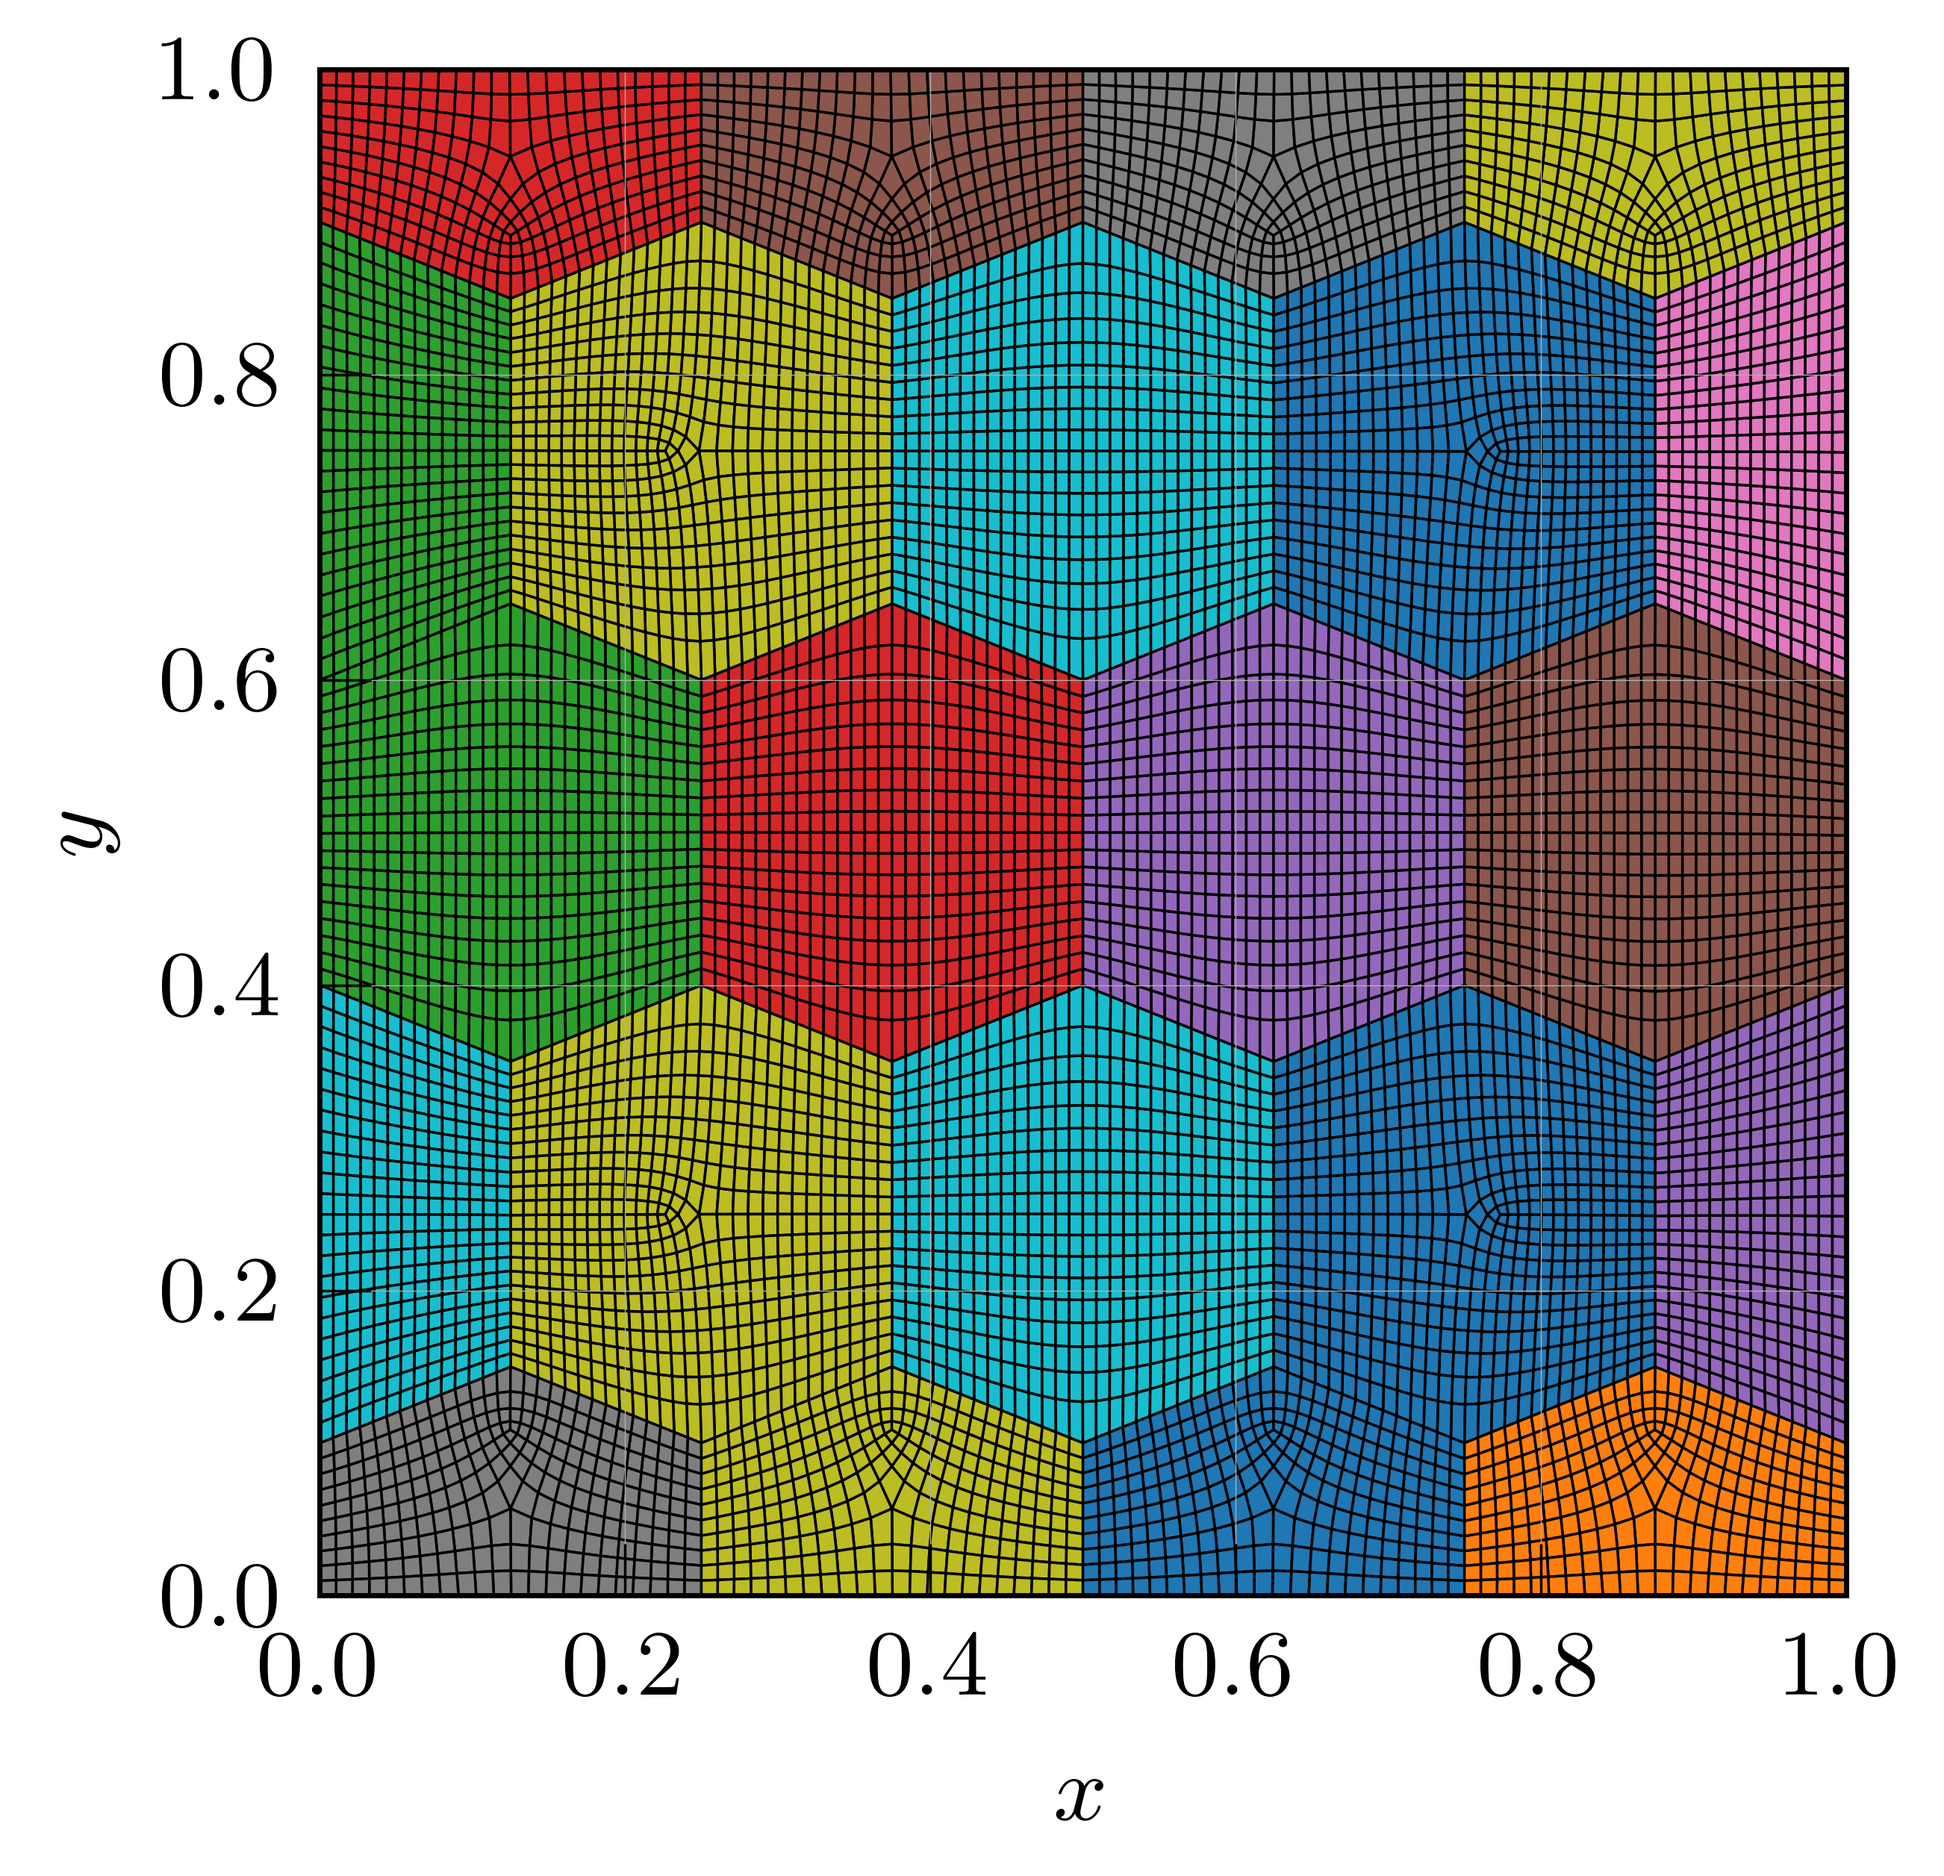
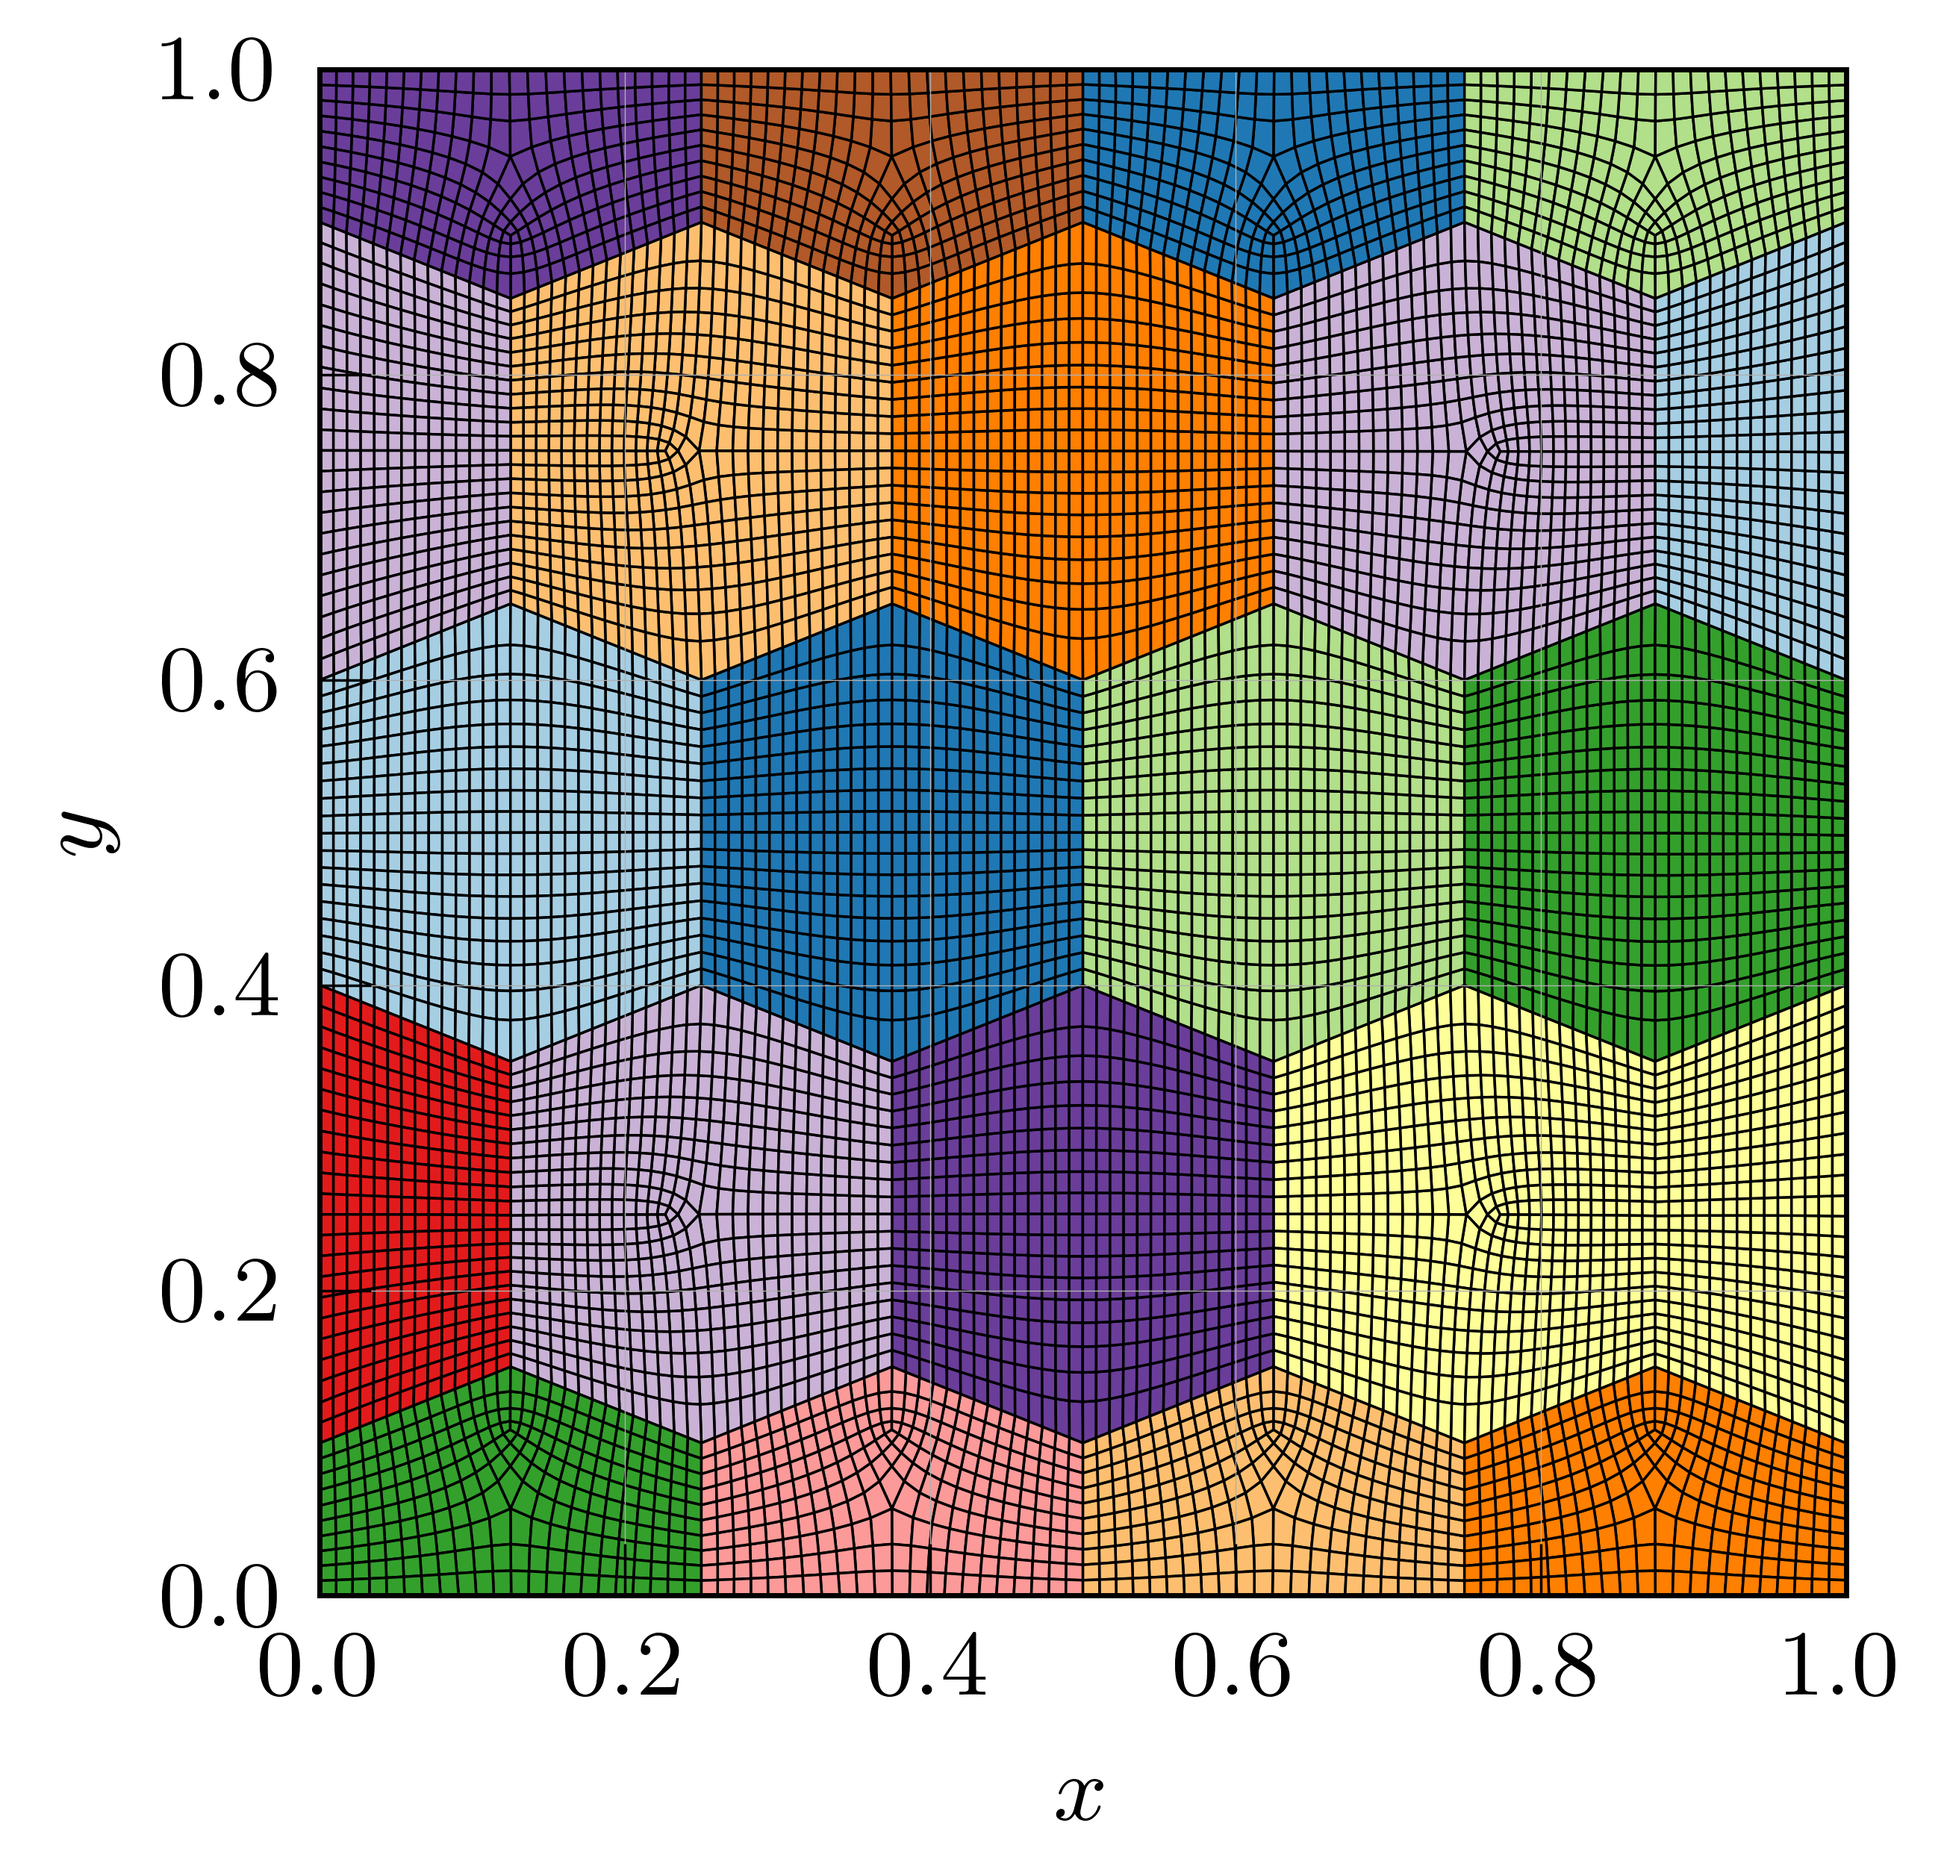
update color scheme

diff --git a/src/post/gmsh_plotter.py b/src/post/gmsh_plotter.py
@@ -35,7 +35,7 @@ class GMSHPlotter:
 
         # Get nodes coords of mesh
         # coords: [x1, y1, z1, x2, y2, z2, ...]
-        node_tags, coords, _ = gmsh.model.mesh.getNodes()
+        _, coords, _ = gmsh.model.mesh.getNodes()
         coords = coords.reshape((-1, 3)) # [[x1, y1, z1], ...]
 
         # If no ax provided, create fig and ax
@@ -53,7 +53,7 @@ class GMSHPlotter:
                 ax.set_zlabel("$z$")
 
         # Create a colormap for faces in each entity
-        cmap = plt.get_cmap("tab10")
+        cmap = plt.get_cmap("Paired")
 
         # Plot over entites
         for entity in entities:

diff --git a/src/main.py b/src/main.py
@@ -14,8 +14,8 @@ import meshio
 import matplotlib.pyplot as plt
 from post.gmsh_plotter import GMSHPlotter
 
-# num_grains = 4
-# mesh_size = 0.025
+num_grains = 4
+mesh_size = 0.025
 msh_file = "../mesh/hex_n{}_h{}.msh".format(num_grains, mesh_size)
 # mesh = meshio.read(msh_file)
 mesh_plotter = GMSHPlotter(msh_file)
